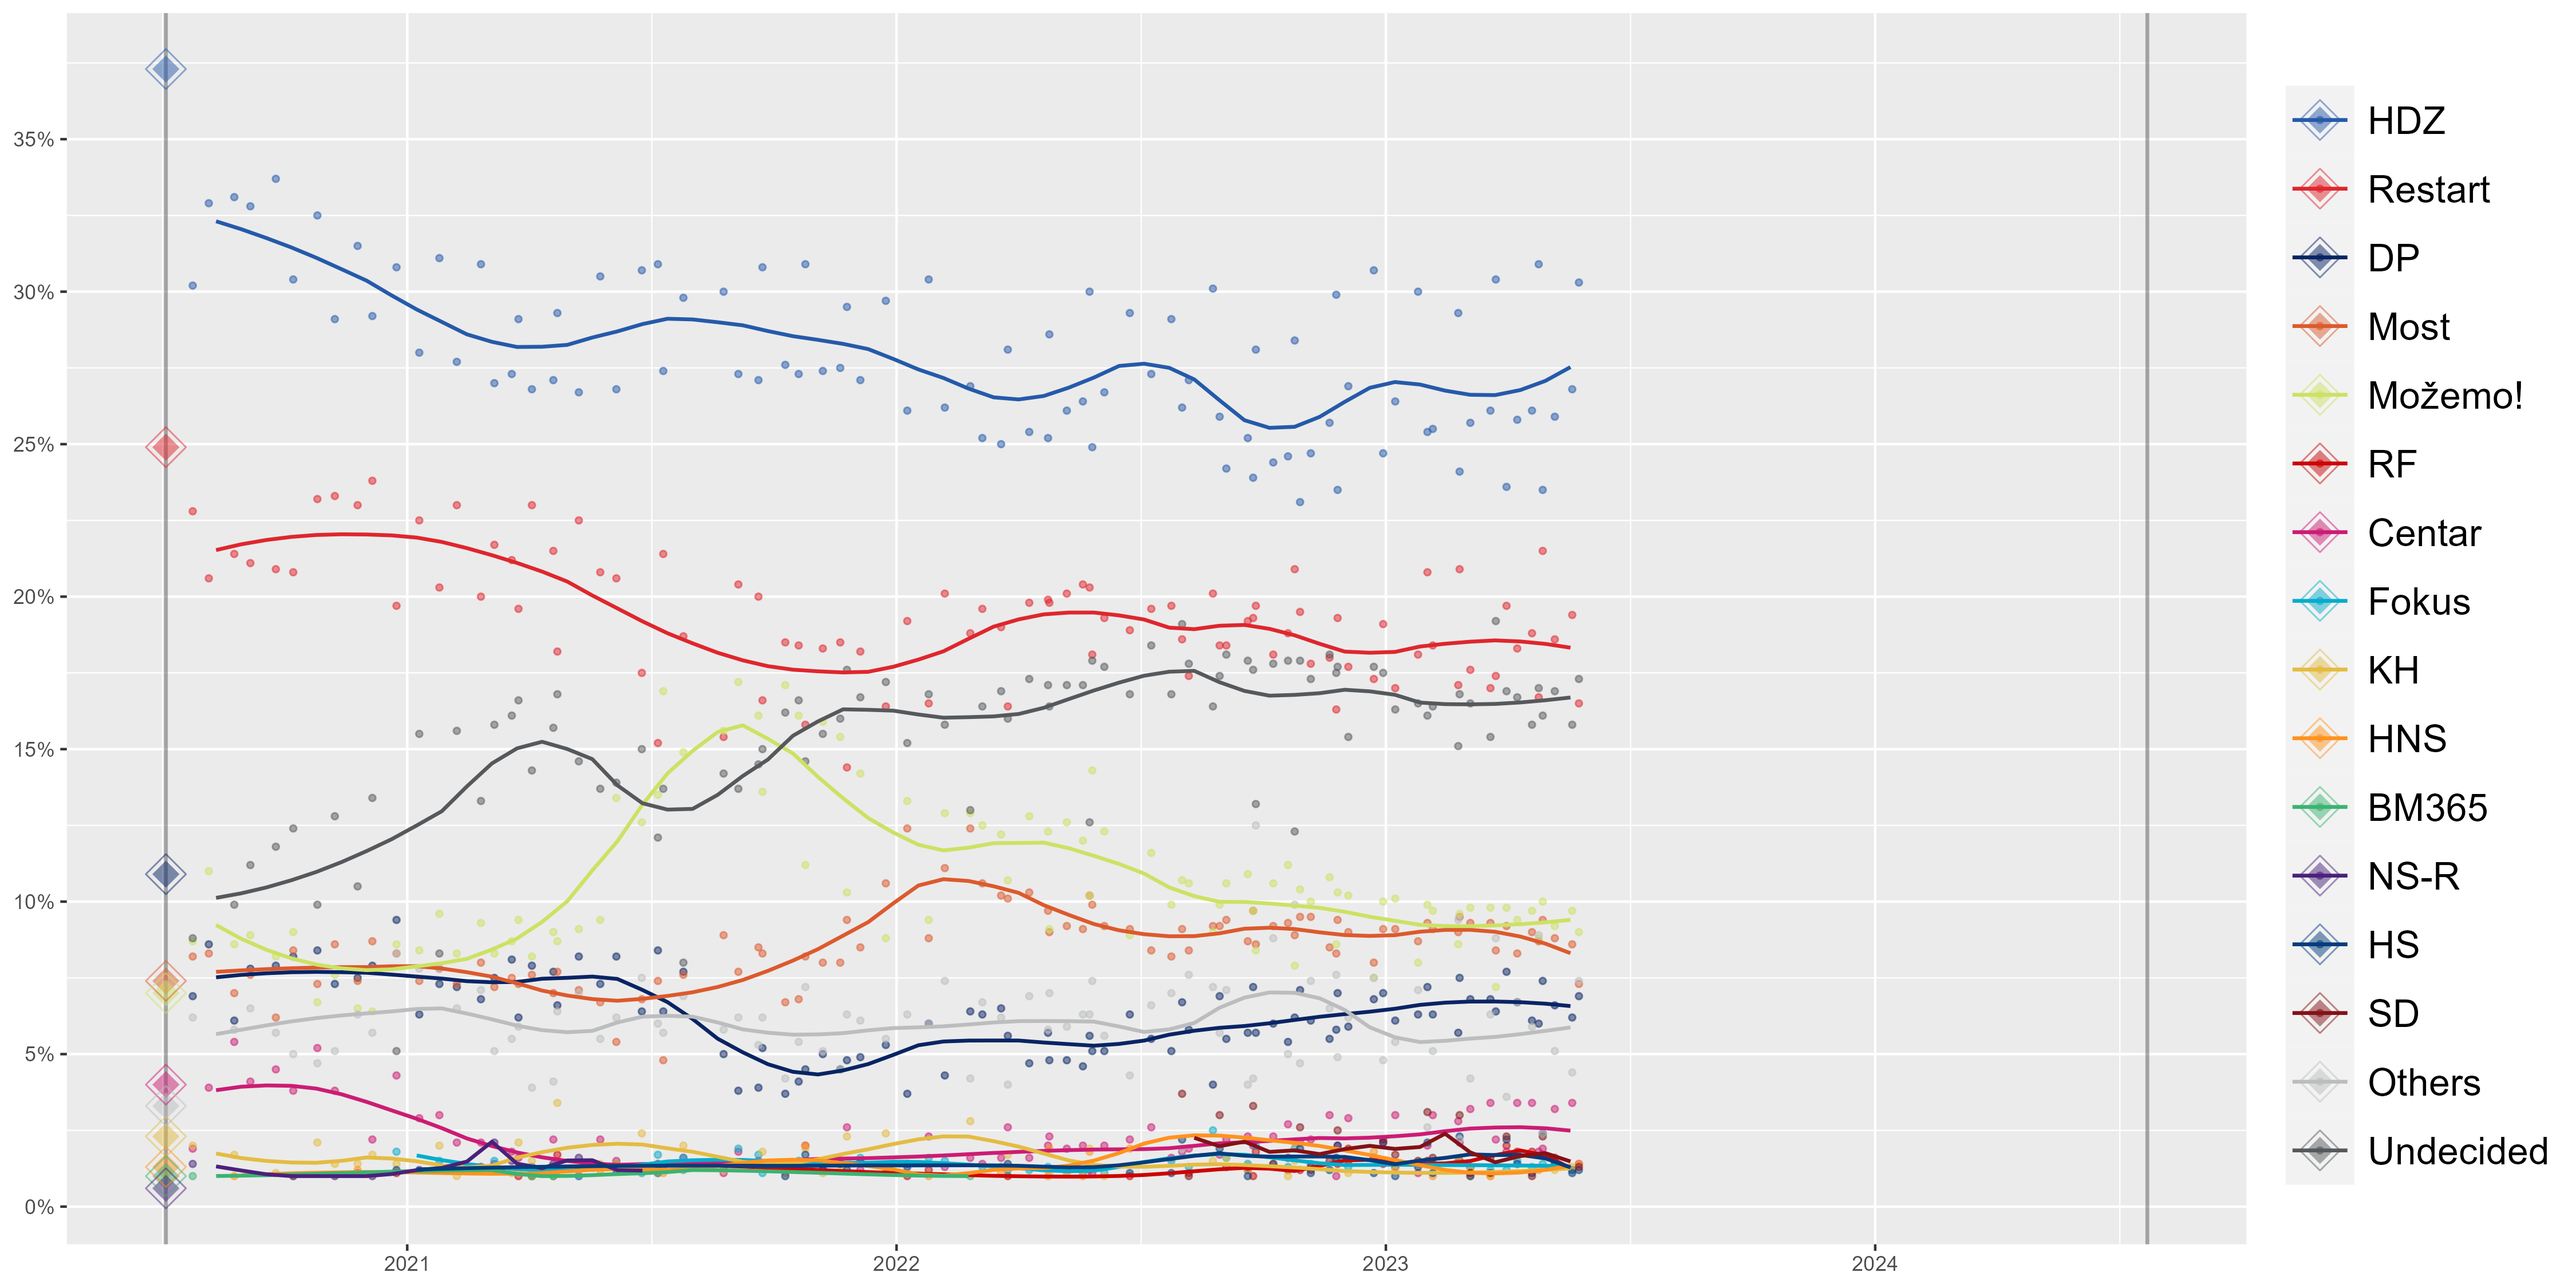
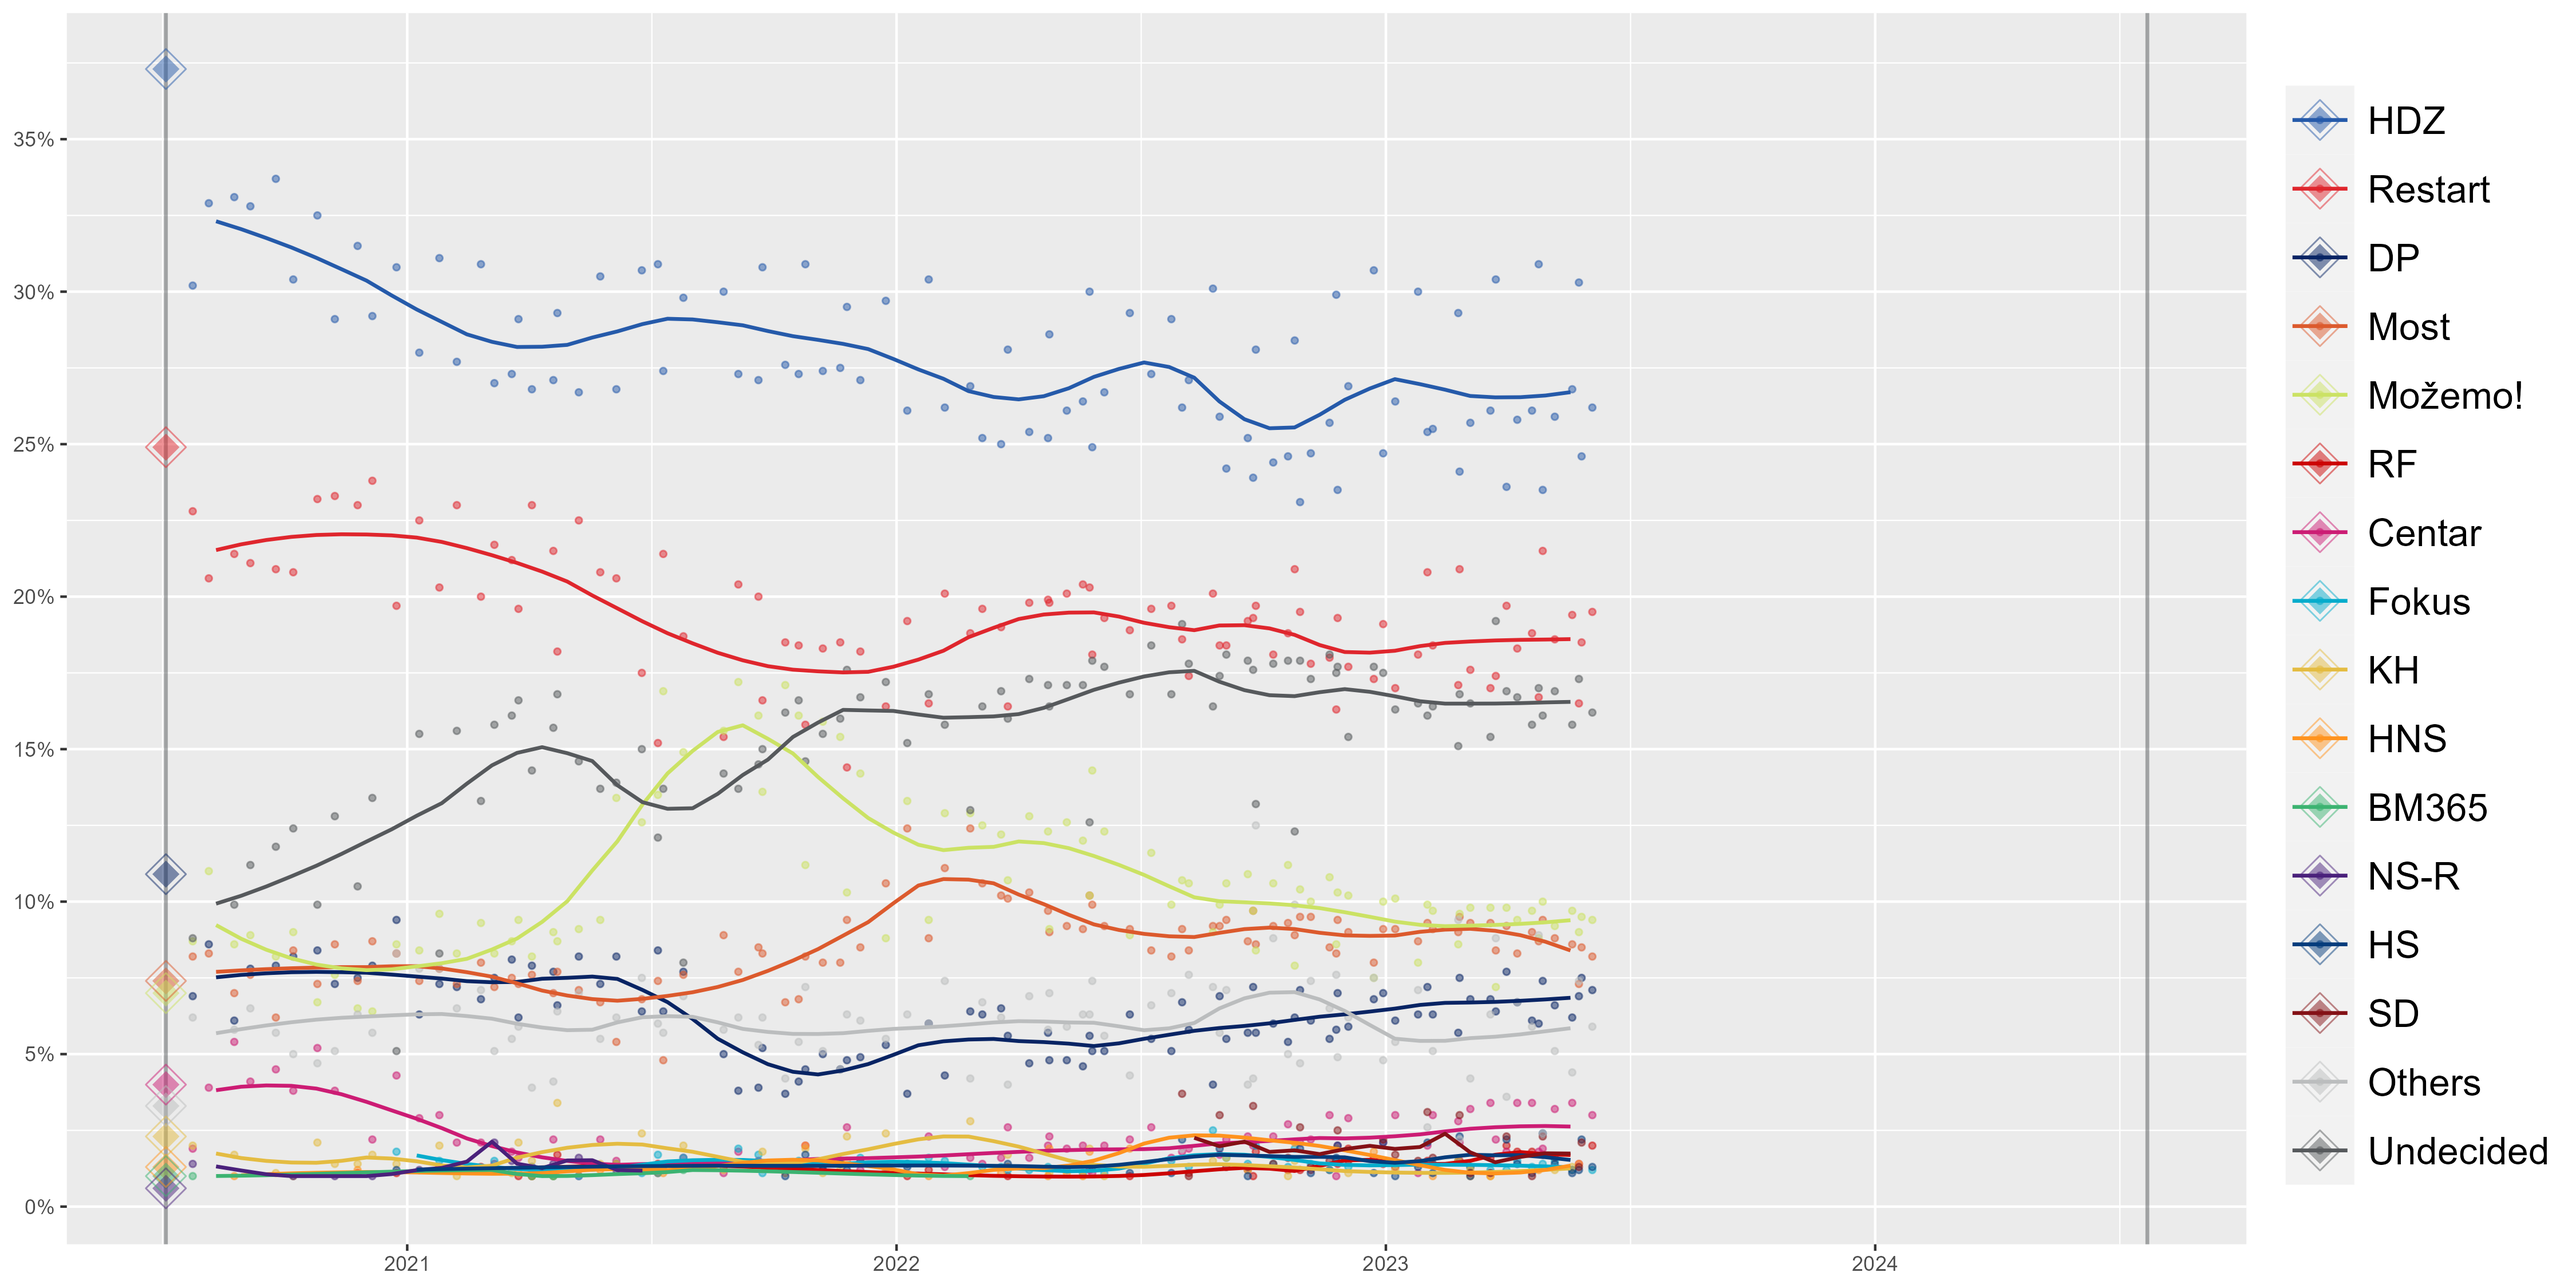
Croatia Fixed

diff --git a/Croatia/data.py b/Croatia/data.py
@@ -14,7 +14,7 @@ tables = soup.find_all('table',class_="wikitable")
 df=pd.read_html(str(tables))
 p = re.compile(r'\[[a-z]+\]')
 
-df0=pd.DataFrame(df[2])
+df0=pd.DataFrame(df[1])
 data22 = df0.drop(["Polling firm","Votes","Lead"], axis=1)
 headers = ['Date','HDZ','SDP','DP','Most','Možemo!','RF','Centar1','Centar2','Fokus','KH','HNS','BM365','NS-R','IDS','HSS','HSU','HS','SD','Others','Undecided']
 parties = ['HDZ','SDP','DP','Most','Možemo!','RF','Centar1','Centar2','Fokus','KH','HNS','BM365','NS-R','IDS','HSS','HSU','HS','SD','Others','Undecided']
@@ -103,3 +103,4 @@ data22.to_csv('Croatia/poll2.csv', index=False)
 # 
 # print(data22)
 # data22.to_csv('Croatia/poll2.csv', index=False)
+
